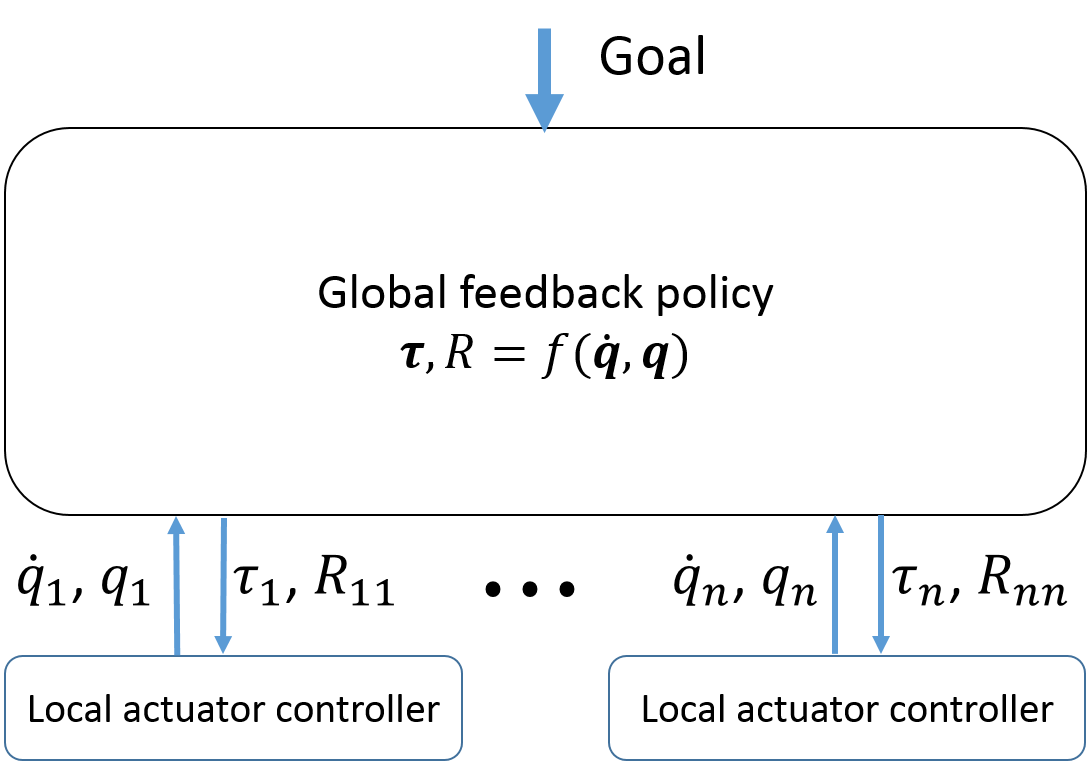
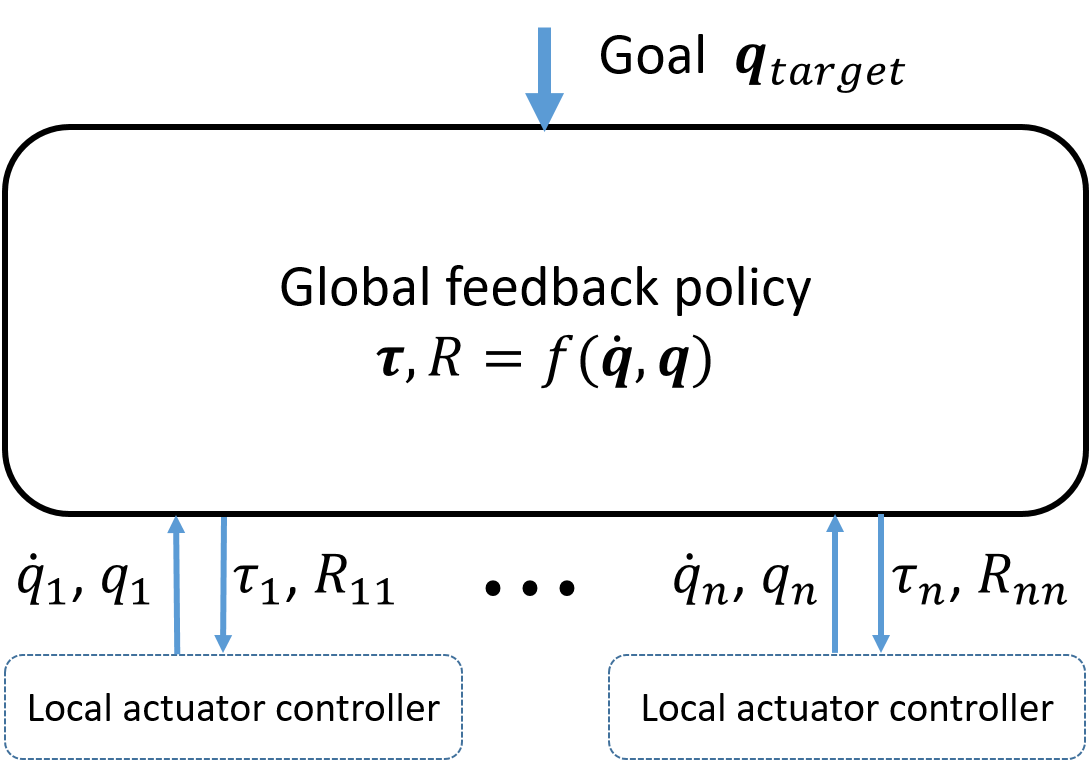
updated archi figs

diff --git a/src/controlplanning.tex b/src/controlplanning.tex
@@ -98,14 +98,39 @@ This chapter proposed control schemes to dynamically select the optimal gear-rat
 
 The architecture of both control approaches is designed so the control signal is a torque and a gear-ratio for each actuator. Hence, it is assumed that low-level VGA controllers handle tracking the torque setpoint and the gear-shifting process. This is analogous to a situation where the robot would be a car with a semi-automatic transmission, and designing policies for the driver where the two control inputs are a throttle level a and shift-up/shift-down signal. The low-level VGA controllers would be specific to the type of actuator used in the system. For the particular case where the VGA are DSDM actuators, the low-lever controllers would be the control laws described in Chapter \ref{sec:MultipleSpeedActuationTechnology}. The architecture difference is that, for the dynamic programming approach given a goal (a target robot configuration $\vec{q}_{target}$) a feedback policy is generated directly. However, for the model-based approach the high-level controller is separated into two levels. A feedback policy for trajectory tracking and a open-loop motion planning algorithm a generate a reference trajectory to reach the goal. 
 
-\paragraph{Trajectory Generation} Algorithm synthesizing a dynamic trajectory ($\ddot{\vec{q}}(:)$,$\dot{\vec{q}}(:)$,$\vec{q}(:)$) that meets performance requirements for reaching the target robot configuration $\vec{q}_{target}$ starting at the actual robot configuration $\vec{q}$. Computation time in the order of 1-10 sec depending the robot complexity. 
+\paragraph{Trajectory Generation} Algorithm synthesizing a dynamic trajectory that meets performance requirements for reaching the target robot configuration starting at the actual robot configuration: 
+%
+\begin{align}
+  \ddot{\vec{q}}_d(:),\dot{\vec{q}}_d(:),\vec{q}_d(:) = f_{planner}(\vec{q}_{target}, \vec{q})
+	\label{eq:trajgen}
+\end{align}
+%
+Computation time is in the order of 1-10 sec depending the robot complexity. Hence, this step is done offline in advance, or alternatively in closed-loop by re-planning continuously but at a very low rate. 
 
-\paragraph{Low-level actuator controller} Independent actuator controllers executing low-level hardware commands in response to given torques and gear-ratio set-points
+\paragraph{Low-level actuator controller} Independent actuator controllers executing low-level hardware commands in response to given torques and gear-ratio set-points. For the particular case of a DSDM actuator the controller compute 
+%
+\begin{align}
+  M1_{pwm} , M2_{pwm} , Brake_{pwm} = f_{DSDM}(\tau_i, R_{ii})
+	\label{eq:low-level-dsdm}
+\end{align}
+%
 
-\paragraph{Trajectory following controller} A function that compute torques and gear-ratios as a function of the robot actual states  and the time ($\dot{\vec{q}}(:)$,$\vec{q}(:)$, $t$)
+\paragraph{Trajectory following controller} A function that compute torques and gear-ratios as a function of the robot actual states and the time:
+%
+\begin{align}
+  \vec{\tau}, R = f_{ctl}(\dot{\vec{q}}, \vec{q} , t)
+	\label{eq:trajctl}
+\end{align}
+%
+ The function is synthesized based on a dynamic model of the robot and a desired trajectory. This function can be executed in closed-loop at a high sampling-rate in the order of 1 kHz.
 
-\paragraph{Global feedback policy} A function that compute torques and gear-ratios as a function of the robot actual states ($\dot{\vec{q}}(:)$,$\vec{q}(:)$). Can be executed online in closed-loop at a high sampling-rate in the order of 1 kHz. However synthesis of the policy require a learning phase that require multiple hours of computation. 
-
+\paragraph{Global feedback policy} A function that compute torques and gear-ratios as a function of the robot actual states. Can be executed online in closed-loop at a high sampling-rate in the order of 1 kHz. However synthesis of the policy require a learning phase that require multiple hours of computation. 
+%
+\begin{align}
+  \vec{\tau}, R = f_{ctl}(\dot{\vec{q}}, \vec{q})
+	\label{eq:globctl}
+\end{align}
+%
 
 
 %TODO incorporate this:
